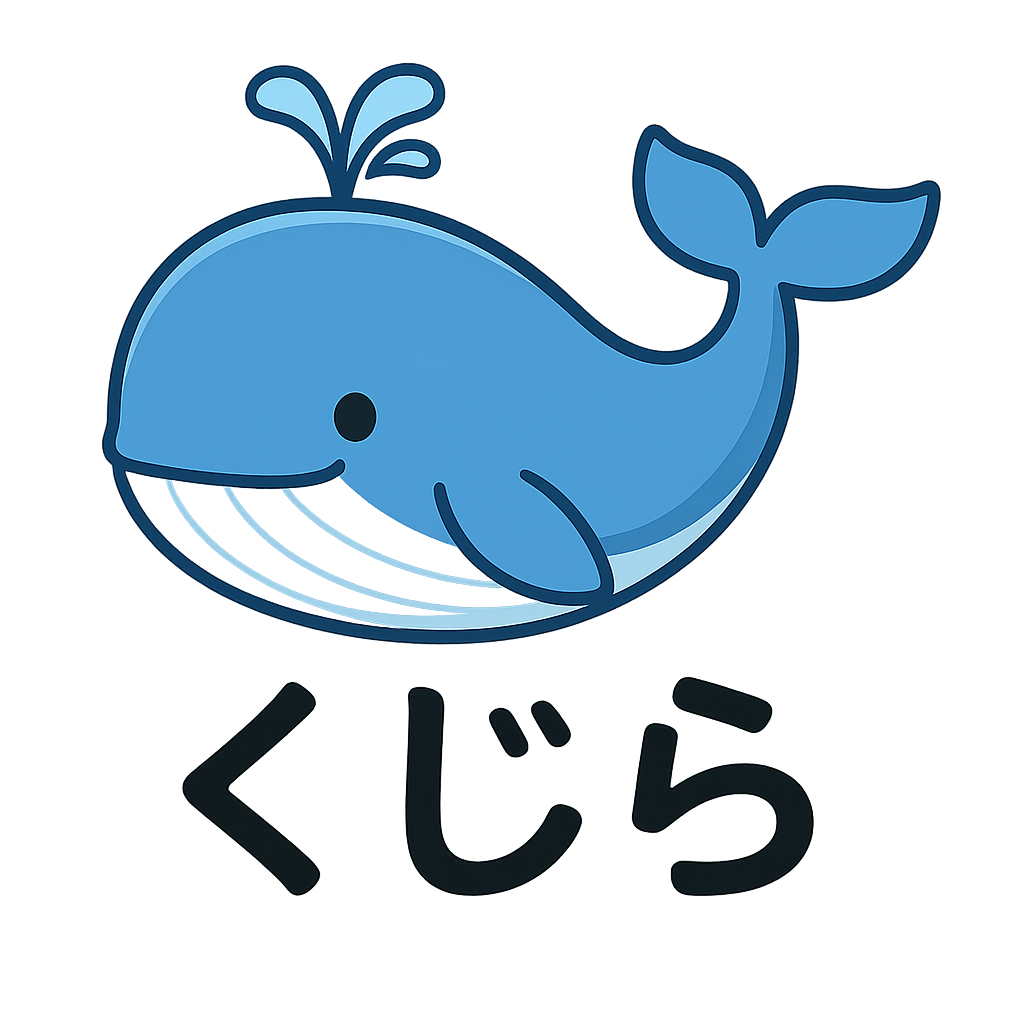
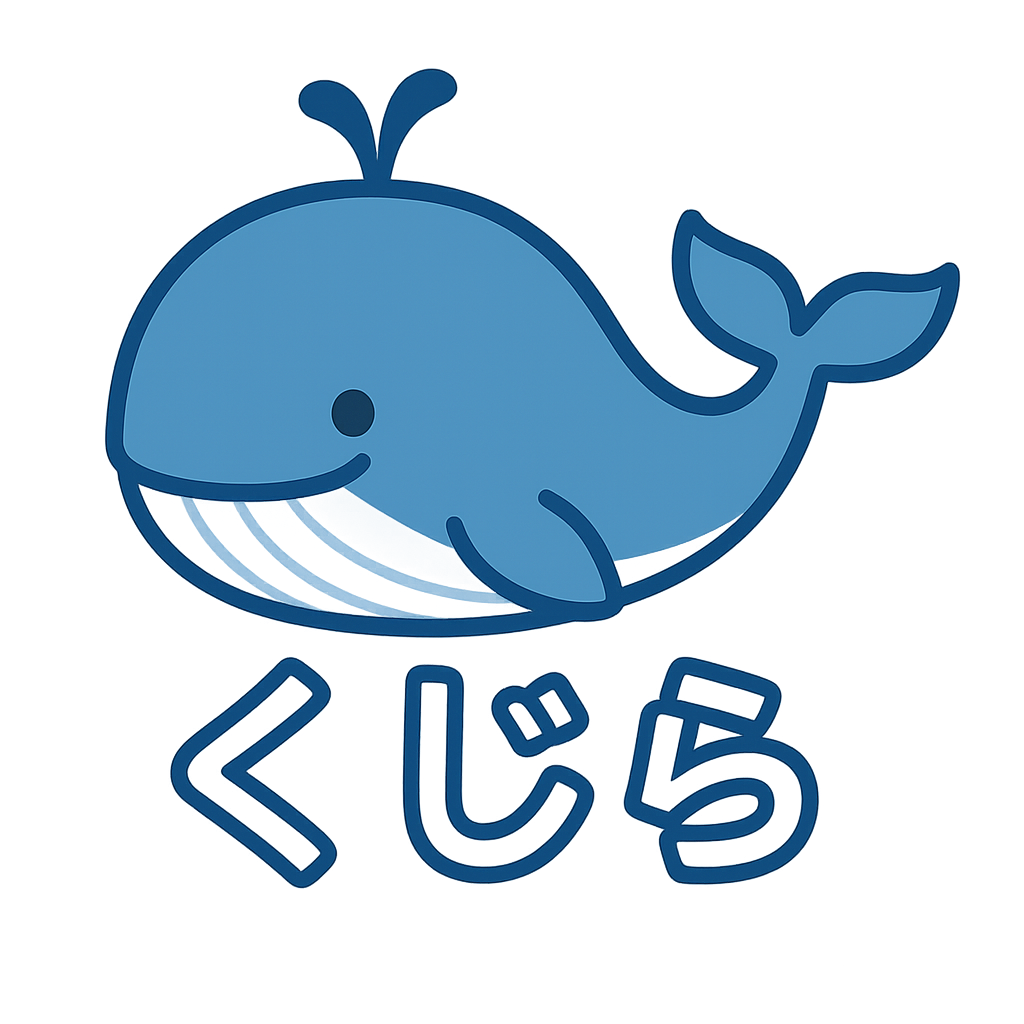
Change whale image and README a bit

Changed region(s): [[0.0938, 0.0625, 0.9375, 0.875]]

diff --git a/README.md b/README.md
@@ -3,15 +3,17 @@
 This repository contains a collection of my development-related materials — from course homeworks to personal notes and CLI tips.
 It serves as my learning archive and a playground for experiments.
 
-🔧 Technologies Used
-	•	Bash / Zsh
-	•	Git
-	•	Linux (Debian/Ubuntu)
+🔧 Technologies Used:
+
+	1. Bash / Zsh
+	2. Git
+	3. Linux (Debian/Ubuntu)
 
 🧰 Goals:
-	• Gain deeper, hands-on experience with Git
-	• Keep track of my progress and reflect on errors
-	• Improve my Linux/Unix skills to be more productive 
+
+	1. Gain deeper, hands-on experience with Git
+	2. Keep track of my progress and reflect on errors
+	3. Improve my Linux/Unix skills to be more productive 
 	  in future projects.
 
 ![Kujira](Assets/images/kujira.png)
